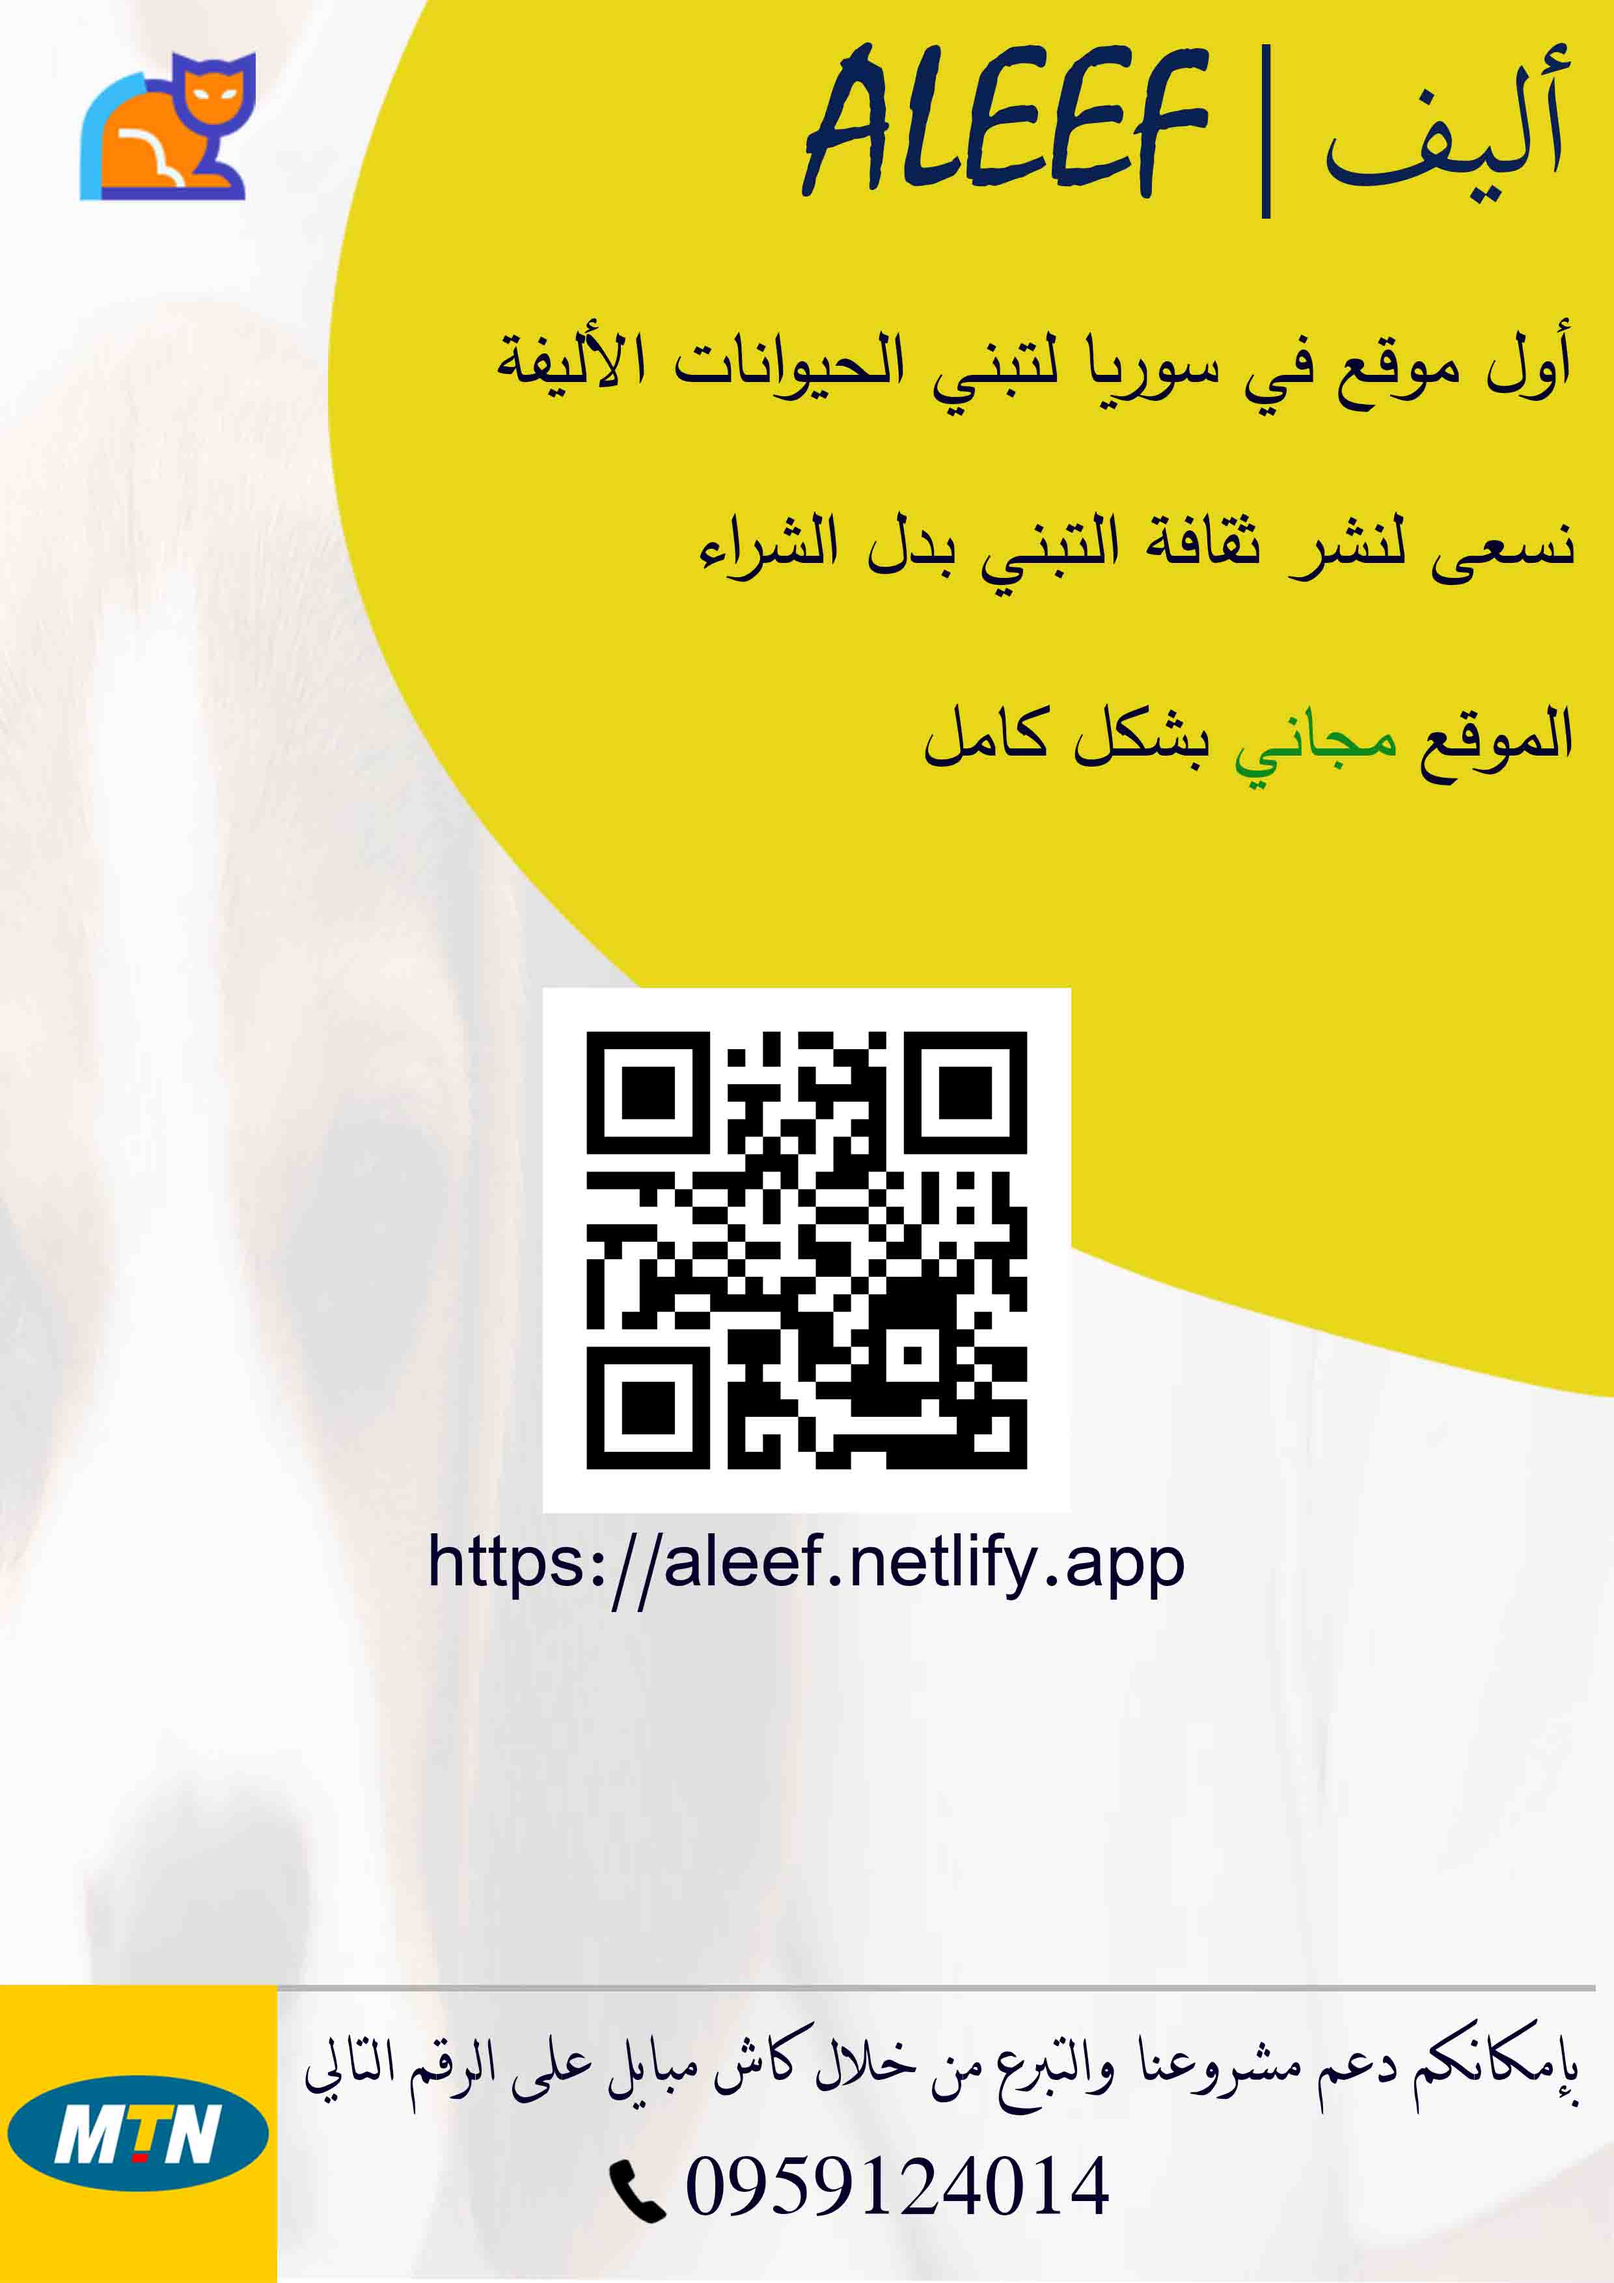
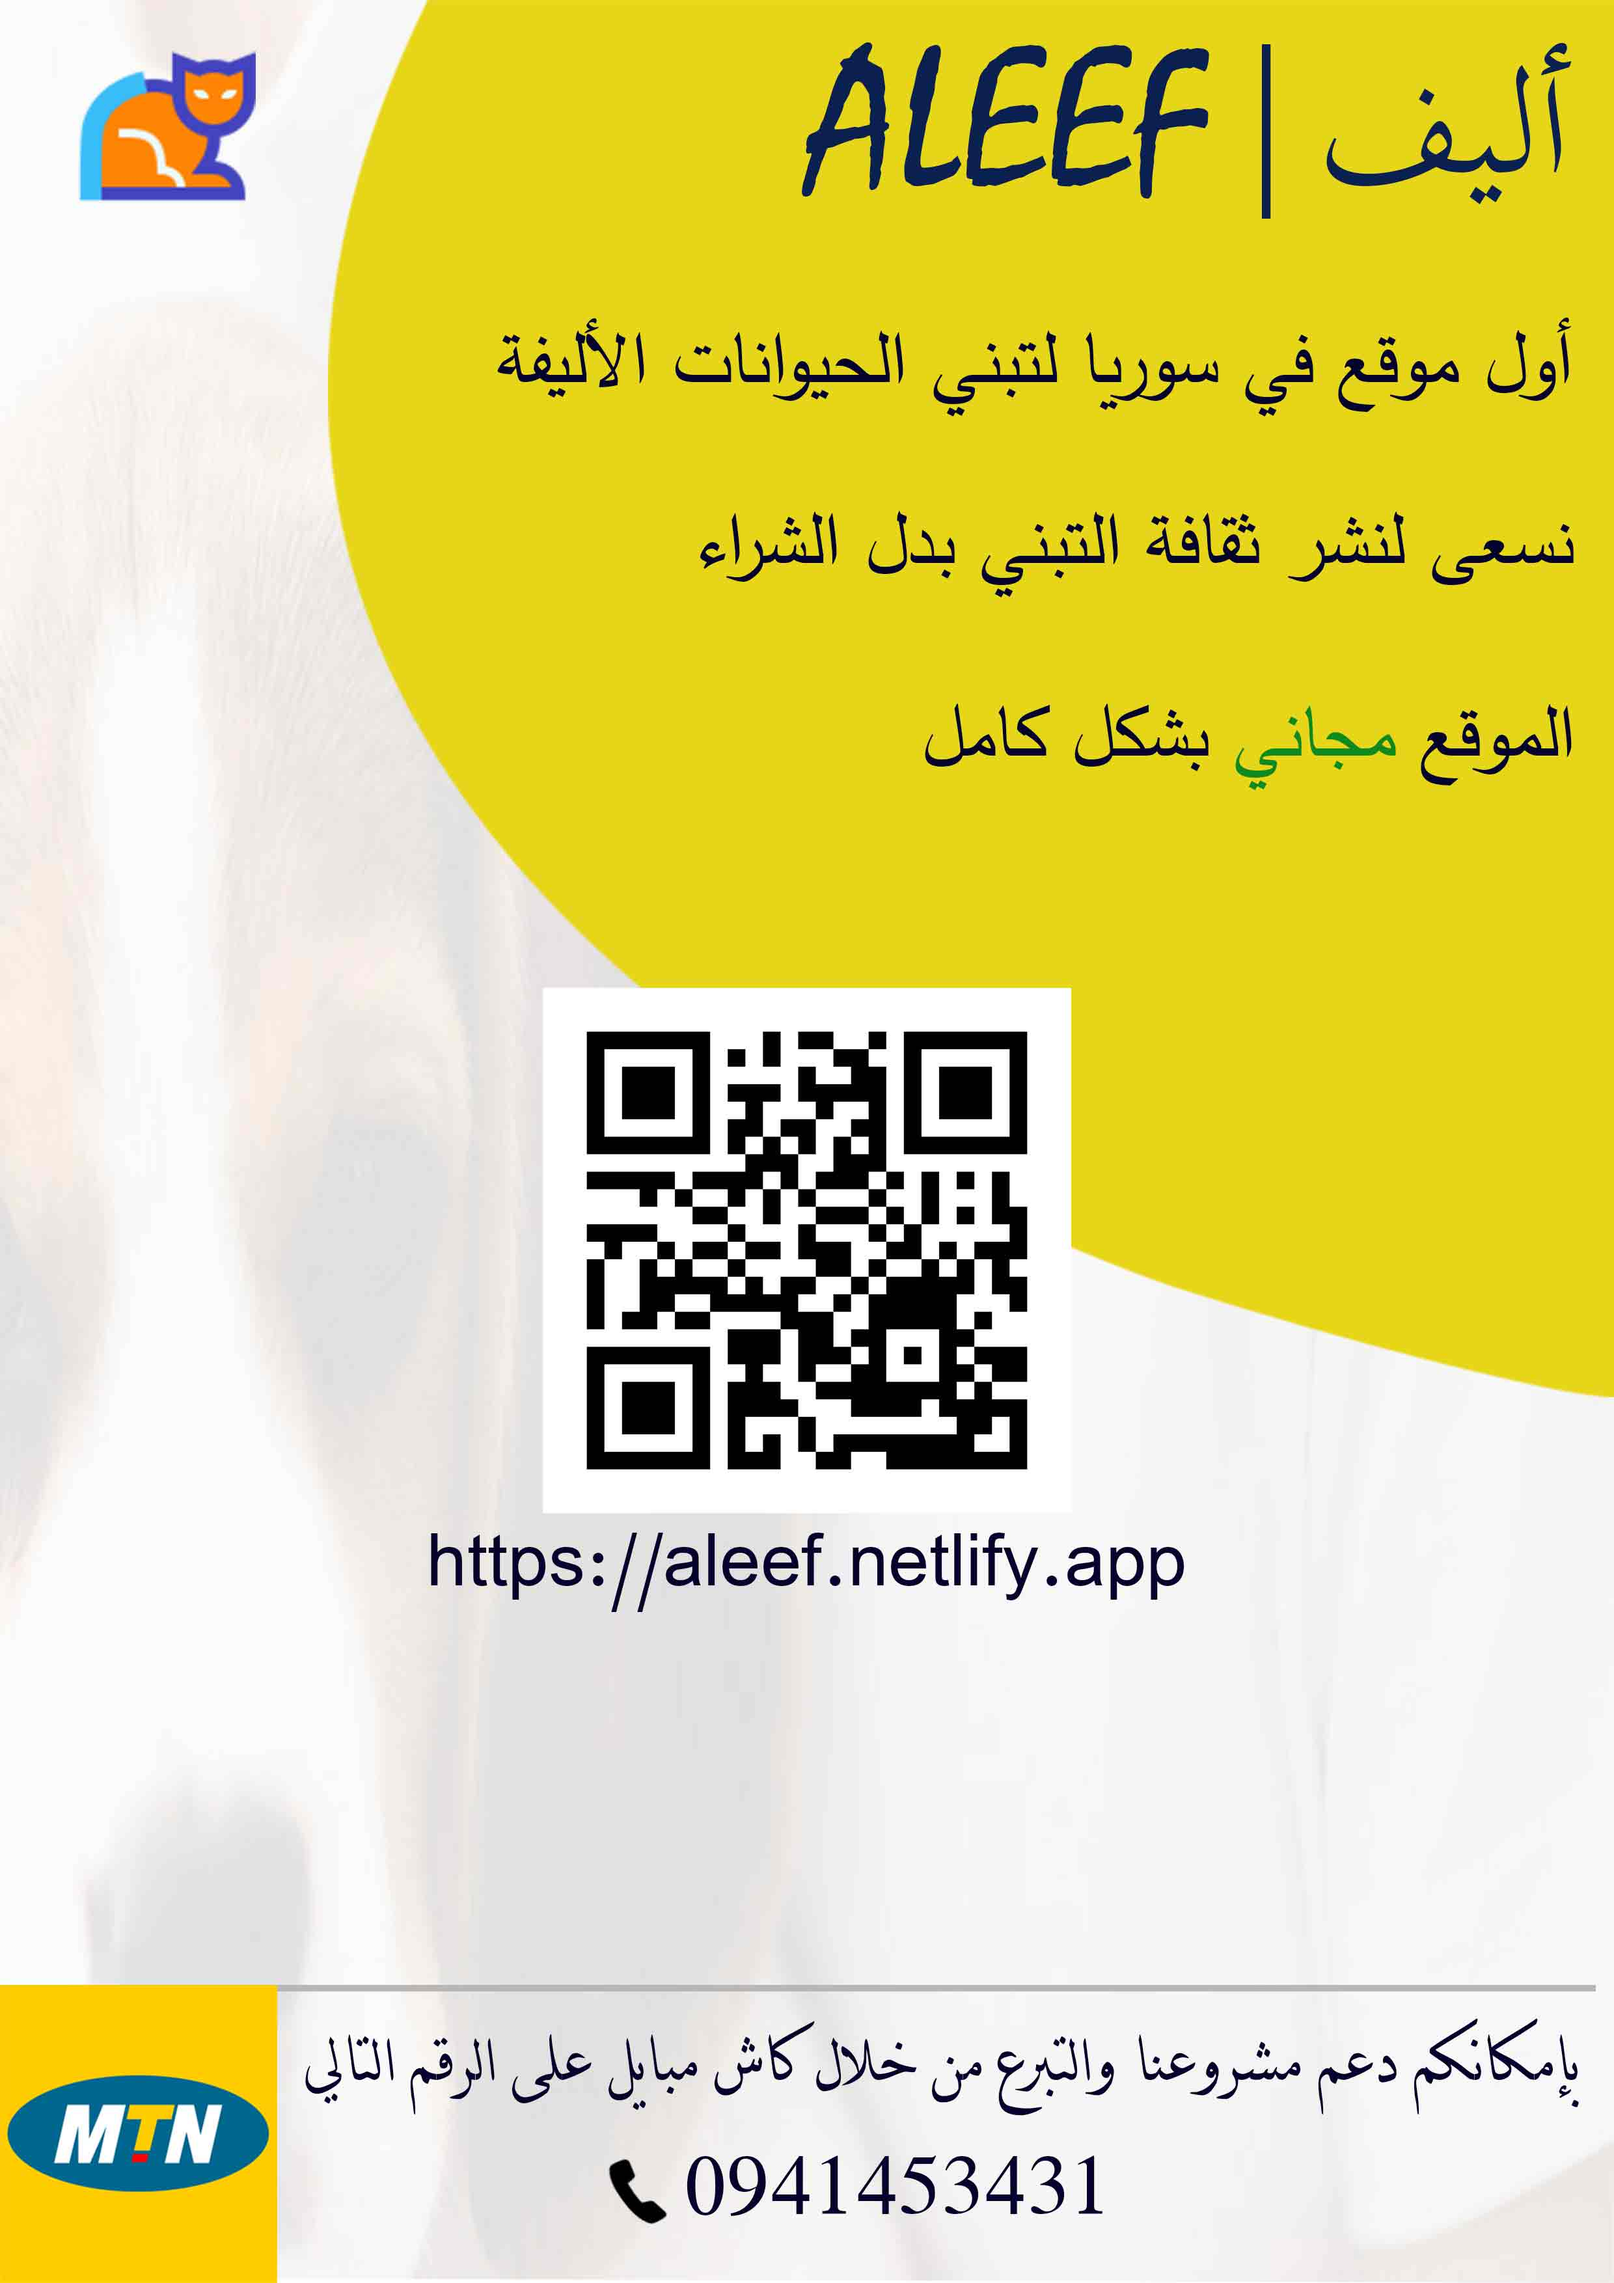
done

Changed region(s): [[0.4657, 0.9322, 0.6831, 0.9943]]

diff --git a/src/components/advertisc/wawe/Wawe.jsx b/src/components/advertisc/wawe/Wawe.jsx
@@ -36,7 +36,7 @@ function Wawe() {
                 <img loading='lazy' src={mtn} alt="img" />
                 <div className='adv-adr'>
                   <p className='adv-t'>بإمكانكم التبرع من خلال  كاش مبايل  على الرقم التالي:</p>
-                  <p className='adv-n'>0959124014</p>
+                  <p className='adv-n'>0941453431</p>
                   <a target='_blank' className='adv-a' href="https://cash.mtnsyr.com/#/">تبرع الان<HiCursorClick/></a>
                 </div>
               

diff --git a/src/components/adoptec/apply/Apply.jsx b/src/components/adoptec/apply/Apply.jsx
@@ -64,7 +64,7 @@ function Apply() {
 }
 /* معرف الخاص */
 function handleid(e){
-    if(e.target.value>3700 || e.target.value<2000){
+    if(e.target.value>3027 || e.target.value<3000){
         e.target.style.color="red";
     } else{
         e.target.style.color="#04022c"
@@ -72,7 +72,7 @@ function handleid(e){
 }
 
 function dealid(e){
-if(e.target.value>3700 || e.target.value<2000){
+if(e.target.value>3027 || e.target.value<3000){
     e.target.value="";
     e.target.placeholder="المعرف غير موجود";
 }

diff --git a/src/components/homec/adop/Adop.css b/src/components/homec/adop/Adop.css
@@ -156,14 +156,16 @@
 }
 
 .adop-h {
-	margin: 10px;
+	padding-top: 5px;
+    padding-right: 10px;
 	text-transform: uppercase;
 	font-size: 28px;
     color: #ffffff;
 }
 
 .adop-numb{
-    margin: 10px;
+    padding:0;
+    padding-right: 10px;
     color: #ffffff;
     
 }

diff --git a/src/components/advertisc/wawe/Wawe.css b/src/components/advertisc/wawe/Wawe.css
@@ -103,7 +103,7 @@
 
 .adv-donate img{
     max-width: 121px;
-    height: 100%;
+    height: 121px;
 }
 .adv-adr{
     display: flex;
